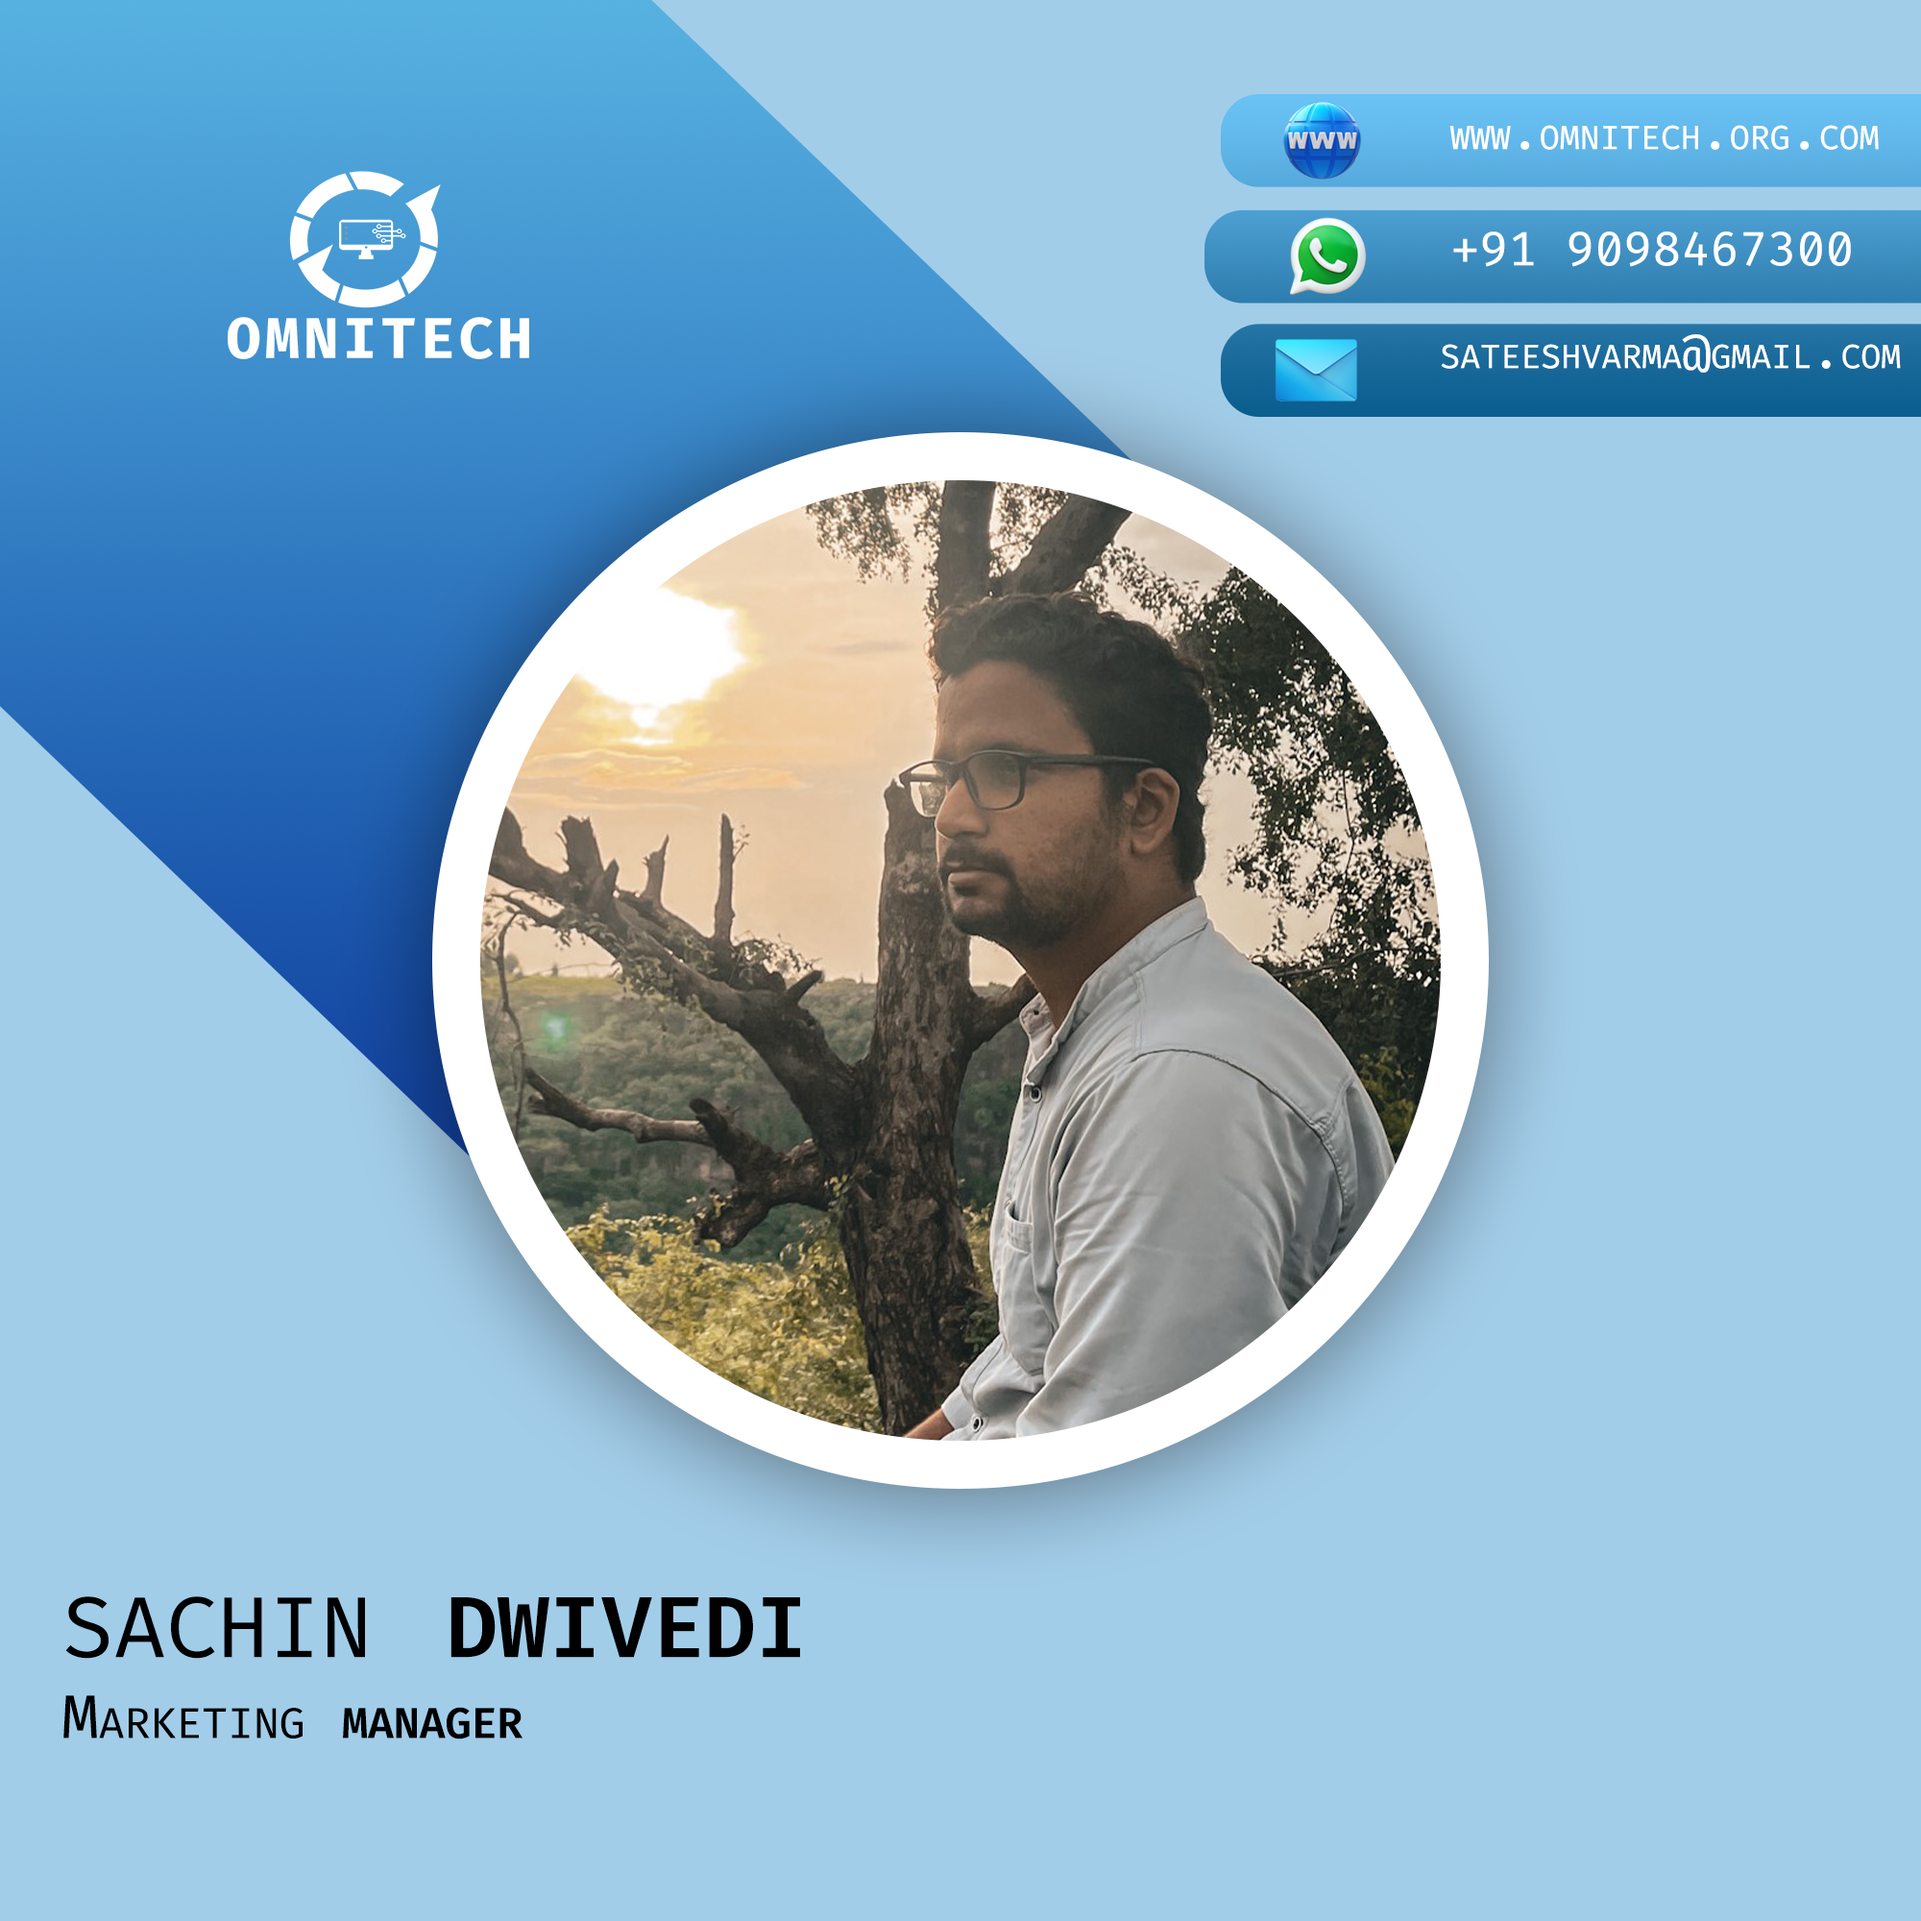
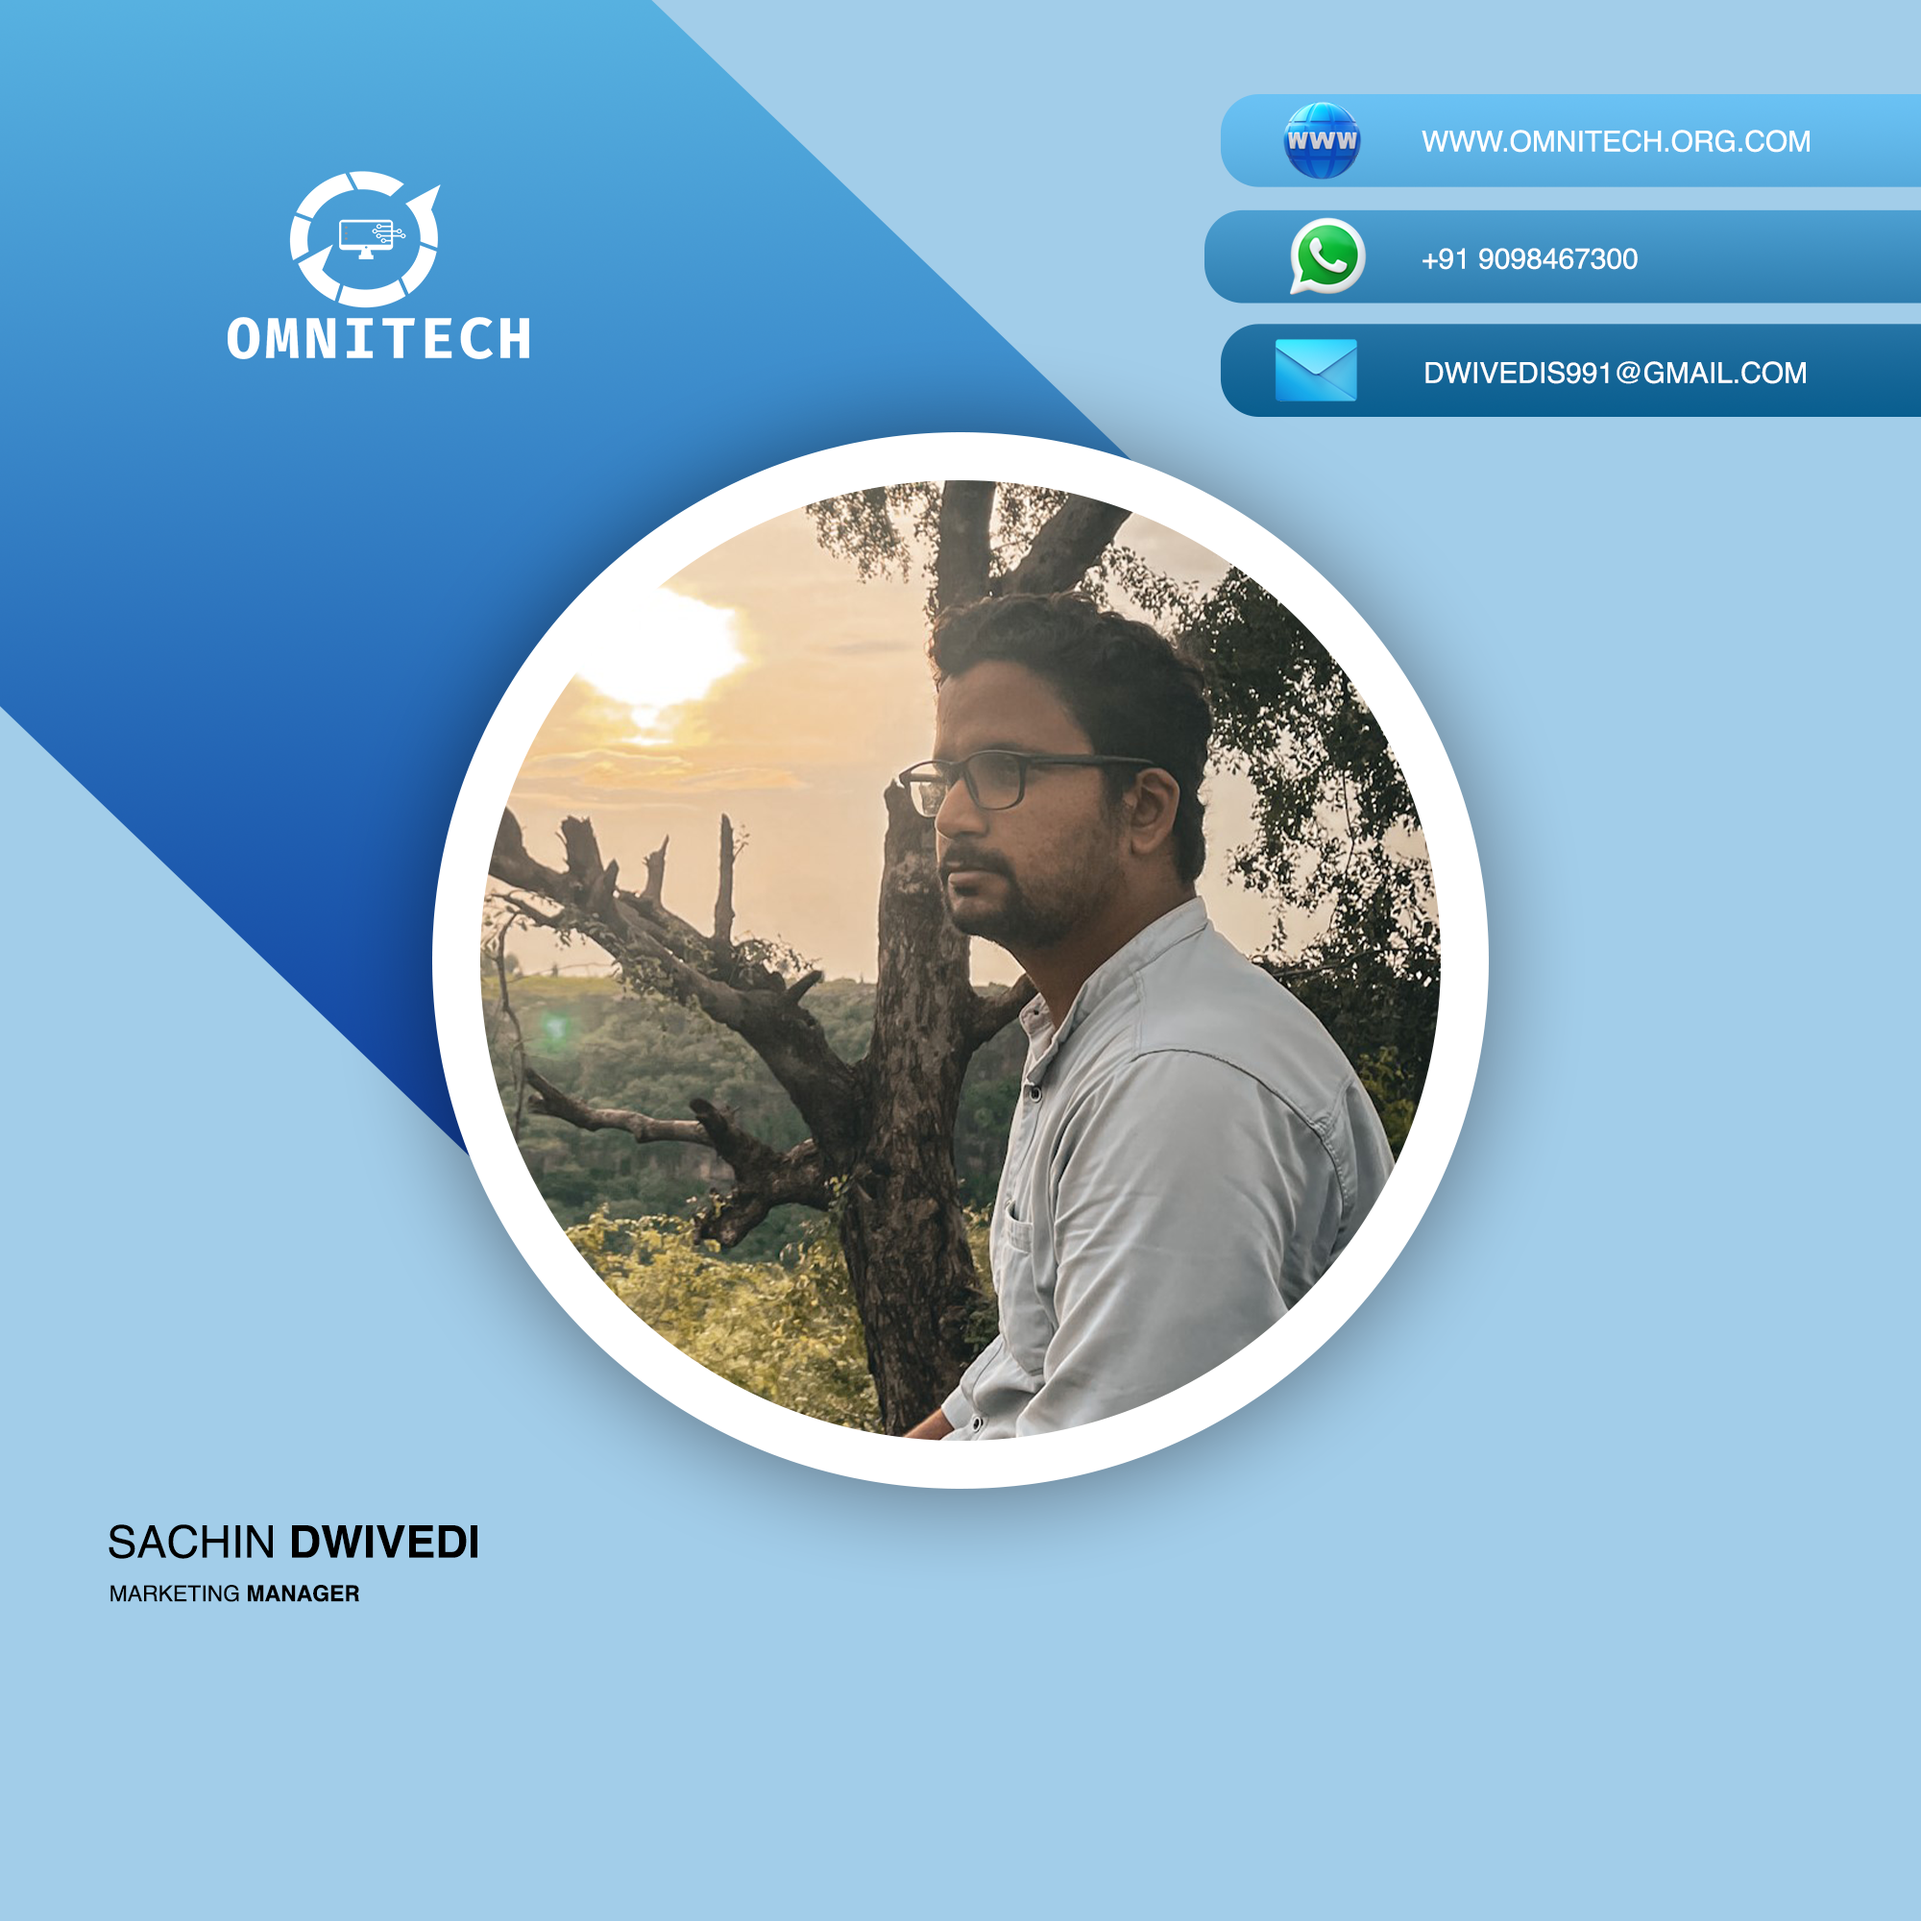
refinment of the code

Changed region(s): [[0.031, 0.775, 0.434, 0.93], [0.744, 0.124, 0.961, 0.217], [0.744, 0.062, 0.992, 0.093]]

diff --git a/src/pages/Home.js b/src/pages/Home.js
@@ -1,37 +1,29 @@
 import React from 'react'
 import heroImg from "../resorces/photo/hero3.jpg"
 import {TiTick} from "react-icons/ti"
-import Timmer from "../components/Timmer"
 import BussinessCard from "../components/BussinessCard"
 import TeamCard from "../components/TeamCard"
 import sateesh from "../resorces/photo/IntroCardSateesh.png"
 import sachin from "../resorces/photo/IntroCardSachin.png"
 const Home = () => {
   return (
-    <div className='px-10 py-24 flex flex-col'>
-      <div className='flex flex-col justify-between lg:flex-row'>
-            <div className='py-10 px-4'>
-              <h1 className=' text-black font-extrabold text-[4.6rem]'>Special Offer Sale</h1>
-              <h1 className='text-lg'>Start your website today and get our Special package included for free:</h1>
-              <ul className='py-2'>
-                <li className='py-2 flex flex-row'><TiTick size={20} className='text-green'/> Unlimited Free SSL</li>
-                <li className='py-2 flex flex-row'><TiTick size={20} className='text-green'/> ree Domain and Whois Privacy</li>
-                <li className='py-2 flex flex-row'><TiTick size={20} className='text-green'/> Malware Scanner</li>
-                <li className='py-2 flex flex-row'><TiTick size={20} className='text-green'/> Cloudflare Protected Nameservers</li>
-              </ul>
-              <Timmer/>    
+    <div className='px-20 py-24 flex flex-col'>
+      <div className='flex flex-col lg:flex-row'>
+            <div className='py-10 lg:px-20 lg:w-1/2'>
+              <h1 className='text-[2rem] lg:text-[3.5rem] font-extrabold uppercase'>GET A <span className='text-red'>PROFESSIONAL WEBSITE </span>FOR YOUR BUSINESS</h1>
               <button className='bg-black text-white hover:bg-red'>Get Offer</button>
-              <h1 className='py-6 flex flex-row'><TiTick size={20} className='text-green'/> Get exclusive 30-day money-back guarantee</h1>
+              <h1 className='py-6 flex flex-row font-medium'><TiTick size={20} className='text-green'/> Get exclusive 30-day money-back guarantee</h1>
             </div>
-            <div>
-              <img className='h-[570px] transition duration-500' src={heroImg} alt='Heroimage'/>
+            <div className='lg:w-1/2 py-10'>
+              <img className='h-[412px]' src={heroImg} alt='Heroimage'/>
             </div>
           </div>
-          <div className='lg:px-20'>
+          <div className='lg:px-20 py-5'>
              <BussinessCard/>
           </div>
           <div>
-          <h1 className='font-bold py-4 text-lg text-red text-center'>Our Team</h1>
+          <h1 className='font-bold text-[2rem] py-4 text-red text-center'>ABOUT US</h1>
+          <h1 className='font-medium text-center'>Our team is highly skilled and experienced in understanding the general consumer behaviours and moderating the UX of the website according to the purchase behaviours. Your website will be carefully tailored with precisely following our proprietary 162 steps procedure which results in extremely high quality <span className='text-red font-bold'>ERROR FREE WEBSITES</span> which generates results.</h1>
           <div className='flex flex-col lg:flex-row py-10 gap-10 justify-center'>
             <TeamCard profile={sateesh}/>
             <TeamCard profile={sachin}/>

diff --git a/src/components/BussinessCard.js b/src/components/BussinessCard.js
@@ -1,4 +1,5 @@
 import React from 'react'
+import { AiOutlineWhatsApp } from 'react-icons/ai'
 import {FaArrowRight} from "react-icons/fa"
 import heroImg from "../resorces/photo/logoOmniWhite.png"
 import SocialMedia from './SocialMedia'
@@ -13,9 +14,9 @@ const BussinessCard = () => {
                 <h1 className=' font-extrabold text-[3rem]'>Online</h1>
                 <FaArrowRight className='text-red m-4' size={30}/>
             </div>
-            <h1 className='py-4'>A few weeks ago, we presented you with our new tool for designers and every creative mind out there: Stories by</h1>
+            <h1 className='py-4 font-medium'><span className='text-red'>OMNITECH</span> is a digital marketing and a website designing company with highly qualified professionals.</h1>
             <div className='flex flex-col items-center gap-1 cursor-pointer lg:gap-6 lg:flex-row'>
-                <button className='bg-white text-black hover:bg-red hover:text-white'>Join Us Now</button>
+                <button className='bg-white text-black hover:bg-red hover:text-white flex flex-row items-center justify-center'><AiOutlineWhatsApp size={30} className='text-green'/> WHATSPP US</button>
                 <SocialMedia classItem='flex items-center gap-1 cursor-pointer'
                 faceUrl="https://www.facebook.com/" 
                 instaUrl="https://www.instagram.com/"

diff --git a/src/index.css b/src/index.css
@@ -3,9 +3,10 @@
 @tailwind utilities; 
 
 @import url('https://fonts.googleapis.com/css2?family=Roboto:wght@300;400;500;700;900&display=swap');
+@import url('https://fonts.googleapis.com/css2?family=Montserrat:wght@100;200;300;400;500;600;700;800;900&display=swap');
 
 *{
-  font-family: 'Roboto', sans-serif;
+  font-family: 'Montserrat', 'Roboto', sans-serif;
   margin: 0%;
   padding: 0%;
   box-sizing: border-box;

diff --git a/src/components/TeamCard.js b/src/components/TeamCard.js
@@ -2,7 +2,7 @@ import React from 'react'
 const TeamCard = (props) => {
   return (
     <div>
-        <img className='h-[420px] shadow-2xl' src={props.profile} alt='Heroimage'/>
+        <img className='h-[512px] shadow-2xl' src={props.profile} alt='Heroimage'/>
     </div>
   )
 }
